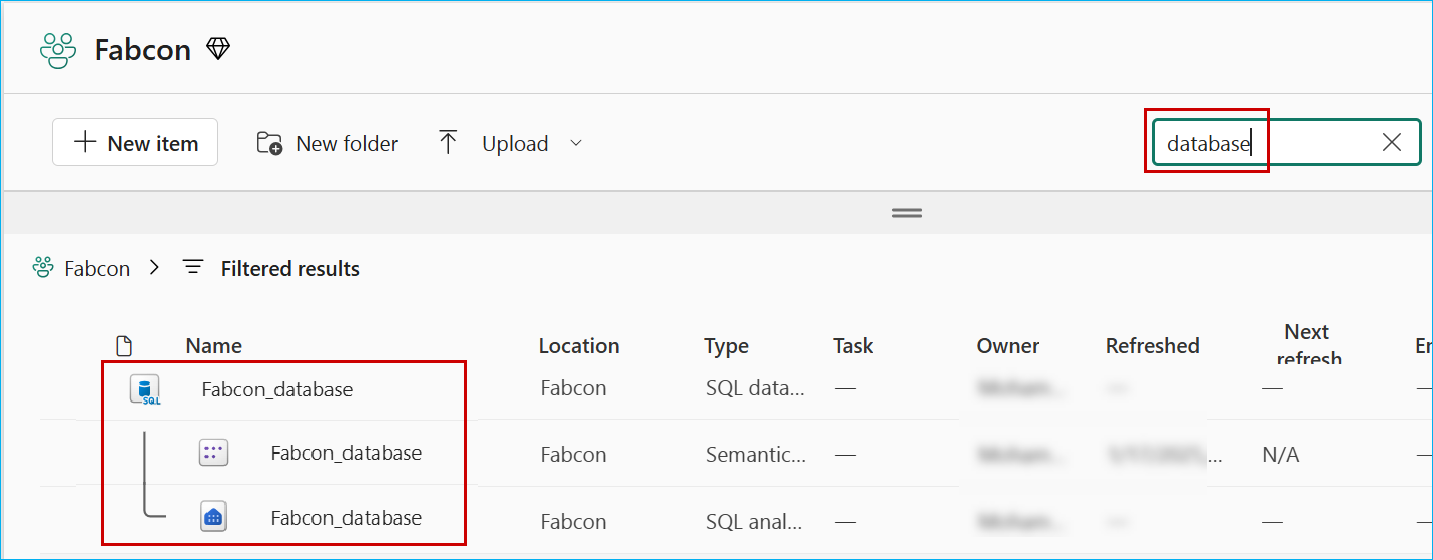
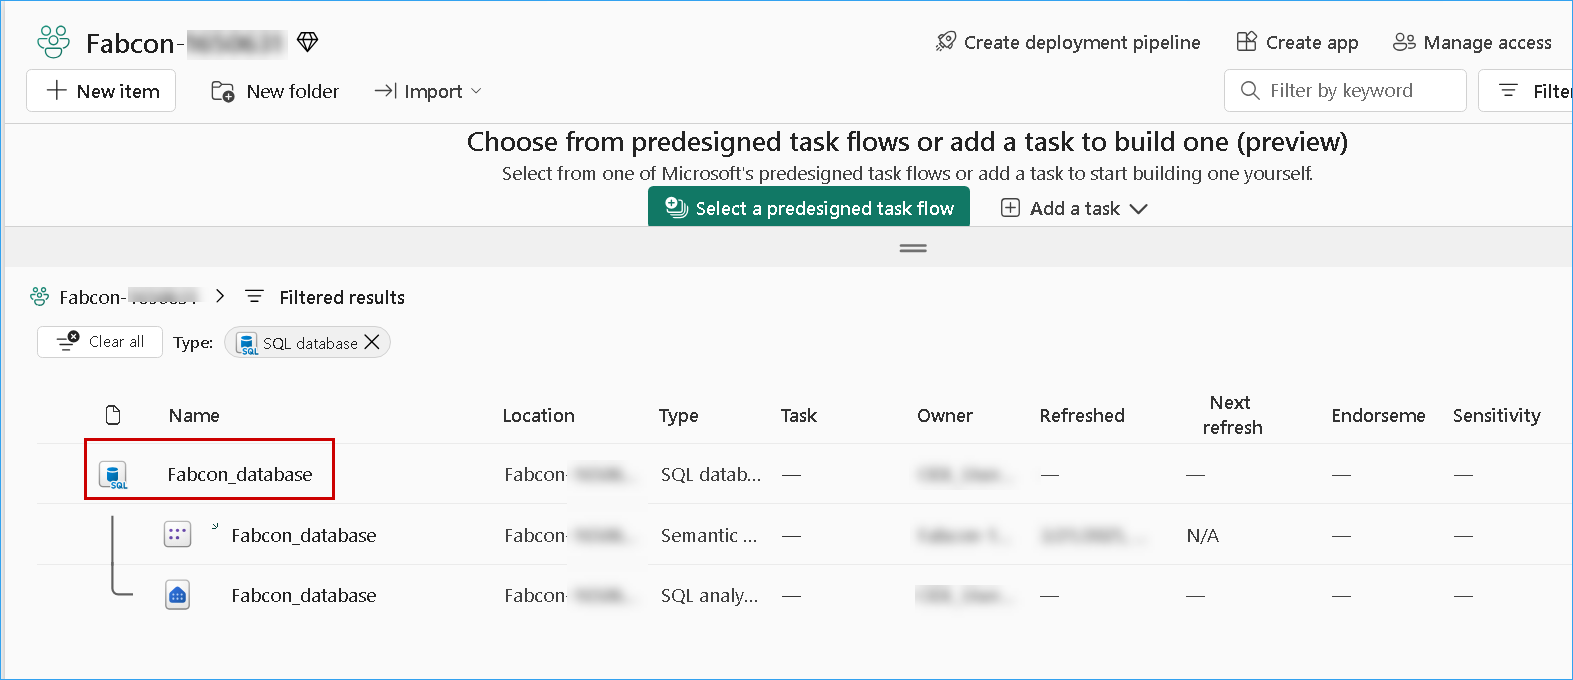
update

diff --git a/Workshop_Exercises/04 - Data Serving.md b/Workshop_Exercises/04 - Data Serving.md
@@ -8,7 +8,7 @@ In this exercise we will create a **semantic model** from the landed earlier in 
 
    ![](../media/new2.png)
 
-2. Search for **database** and select the **Fabcon_database**.
+2. Select the **Fabcon_database**.
 
    ![](../media/database2.png)
 
@@ -44,6 +44,8 @@ In this exercise we will create a **semantic model** from the landed earlier in 
 
 1. Click on the **<inject key="WorkspaceName" enableCopy="false"/>** workspace from the left navigation menu, click on **Filter** and under **Type**, select **Semantic model**.
 
+> **Note:** Clear any filters related to SQL Database from the filter section.
+
 2. Click on the **website_bounce_rate** semantic model.
 
    ![](../media/f28.png)
@@ -63,6 +65,8 @@ In this exercise we will create a **semantic model** from the landed earlier in 
 6. Scroll down to the **Q&A** section and expand it, then select the **Turn on Q&A to ask natural language questions about your data** checkbox, and click on **Apply**.
 
    ![alt text](../media/img-2.png)
+
+   > **Note:** If it is already applied, proceed to the next step.
 
 7. Click on **Untitled report** from the left menu.
 

diff --git a/Workshop_Exercises/05 - Exploring GraphQL API Endpoints in Microsoft Fabric.md b/Workshop_Exercises/05 - Exploring GraphQL API Endpoints in Microsoft Fabric.md
@@ -14,9 +14,15 @@ Let's first create a view using a simple analytical T-SQL query. The new view, `
 
    ![](../media/new2.png)
 
+    >**Note:** When the Unsaved changes pop-up appears, select Don't Save.
+
+      ![](../media/dontsave.png)
+
 2. Search for **database** and select the **Fabcon_database**.
 
    ![](../media/database2.png)
+
+   >**Note:** Clear any filters related to Sematic model from the filter section.
 
 3. In the **SQL Database**, click on **New Query** and **Copy** the following T-SQL script and paste it in the query window.
 
@@ -44,12 +50,11 @@ Let's first create a view using a simple analytical T-SQL query. The new view, `
 
 
 6. Enter ``supplier_impact_gql`` in the **Name** field and click on the **Create** button.
-
-   ![](../media/07.png)
-
     ```
     supplier_impact_gql
     ```
+   ![](../media/07.png)
+
 
 #### Activity: Write and test GraphQL queries to retrieve data
 
